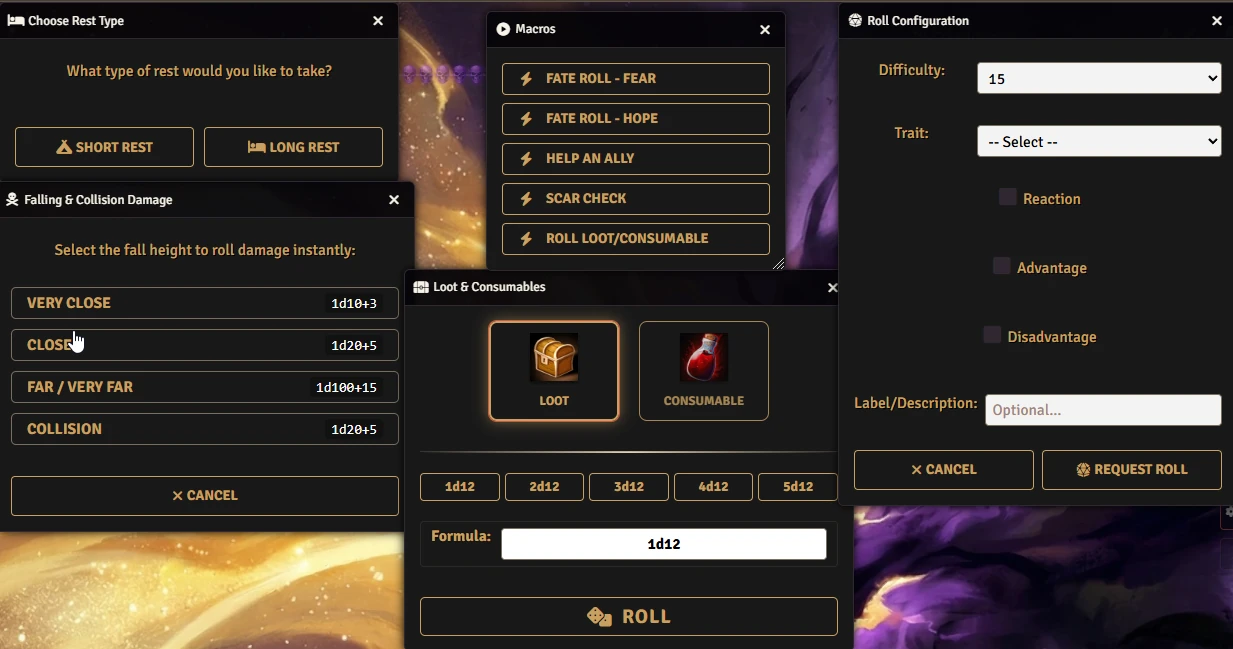
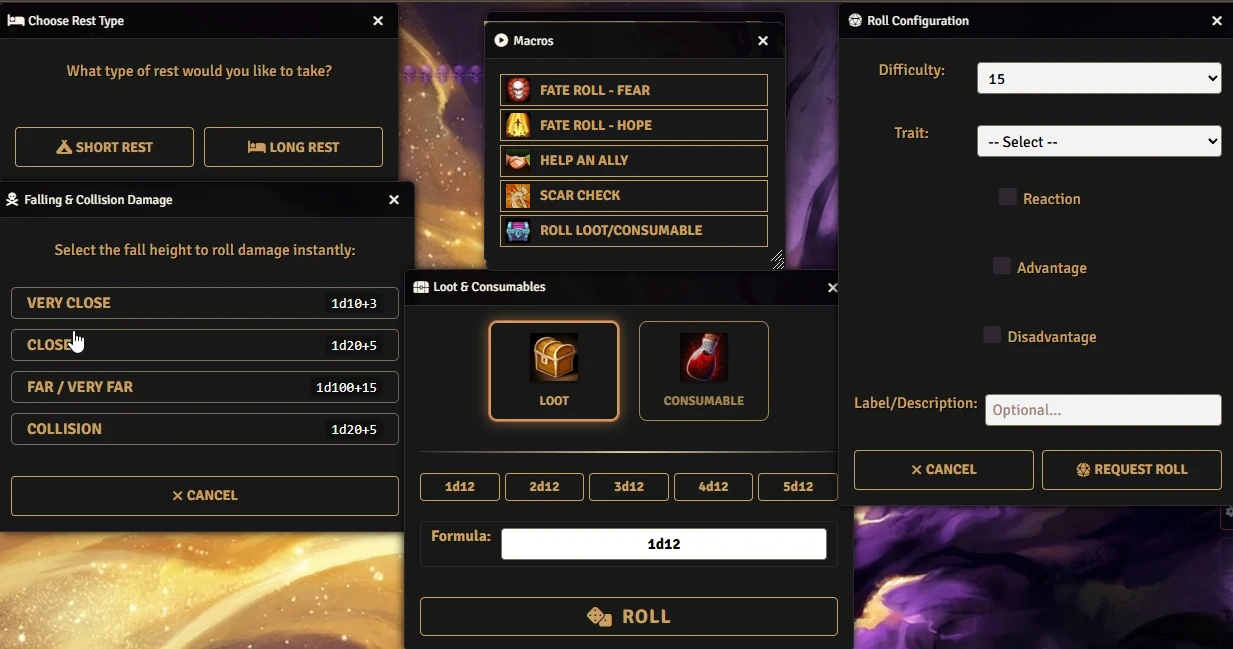
0.0.5

Changed region(s): [[0.4006, 0.0308, 0.6164, 0.4006], [0.6164, 0.0308, 0.6472, 0.0616]]

diff --git a/scripts/apps.js b/scripts/apps.js
@@ -750,32 +750,89 @@ class ShowMacrosApp extends HandlebarsApplicationMixin(ApplicationV2) {
     };
 
     async _prepareContext(options) {
+        const macroList = [];
+        const defaultPackName = "daggerheart-quickactions.macros";
+        const pack = game.packs.get(defaultPackName);
+        let index = null;
+        
+        // Fetch index to check for names/images if possible without loading all docs
+        if (pack) {
+            index = await pack.getIndex();
+        }
+
+        for (const identifier of this.macroNames) {
+            let displayName = identifier;
+            let displayImg = "icons/svg/dice-target.svg"; // Default macro icon
+            let isUUID = typeof identifier === "string" && identifier.includes(".");
+
+            let doc = null;
+
+            if (isUUID) {
+                try {
+                    // Attempt to load the document to get its name and image
+                    doc = await fromUuid(identifier);
+                } catch (error) {
+                    console.warn(`QuickActions | Could not resolve UUID '${identifier}'.`);
+                }
+            } else if (index) {
+                // Try finding by name in default pack
+                // We use the index first to see if it exists
+                const entry = index.find(m => m.name === identifier);
+                if (entry) {
+                    // The index entry usually has name and img
+                    displayName = entry.name;
+                    displayImg = entry.img;
+                }
+            }
+
+            // If we successfully loaded a full document (via UUID), override with its specific data
+            if (doc) {
+                displayName = doc.name;
+                displayImg = doc.img;
+            }
+
+            macroList.push({
+                id: identifier,   // The original string (Name or UUID) needed for execution logic
+                name: displayName,
+                img: displayImg
+            });
+        }
+
         return {
-            macros: this.macroNames
+            macros: macroList
         };
     }
 
     async _onExecuteMacro(event, target) {
-        const macroName = target.dataset.macro;
-        const packName = "daggerheart-quickactions.macros";
-        const pack = game.packs.get(packName);
+        const identifier = target.dataset.macro;
+        const defaultPackName = "daggerheart-quickactions.macros";
+        let macro = null;
 
-        if (!pack) {
-            ui.notifications.error(`Compendium '${packName}' not found.`);
-            return;
+        // 1. Try finding by Name in the default specific Compendium
+        const pack = game.packs.get(defaultPackName);
+        if (pack) {
+            const index = await pack.getIndex();
+            const entry = index.find(m => m.name === identifier);
+            if (entry) {
+                macro = await pack.getDocument(entry._id);
+            }
         }
 
-        const index = await pack.getIndex();
-        const entry = index.find(m => m.name === macroName);
-
-        if (!entry) {
-            ui.notifications.warn(`Macro '${macroName}' not found in '${packName}'.`);
-            return;
+        // 2. If not found in the default compendium, assume it is a UUID
+        if (!macro) {
+            try {
+                // Resolves UUIDs like "Macro.ID" (World) or "Compendium.scope.pack.Item.ID"
+                macro = await fromUuid(identifier);
+            } catch (err) {
+                // Ignore parse errors, user might have just typed a name that doesn't exist
+            }
         }
 
-        const macro = await pack.getDocument(entry._id);
-        if (macro) {
+        // 3. Execution
+        if (macro && typeof macro.execute === 'function') {
             macro.execute();
+        } else {
+            ui.notifications.warn(`QuickActions: Macro '${identifier}' not found in '${defaultPackName}' nor as a valid UUID.`);
         }
     }
 }

diff --git a/README.md b/README.md
@@ -76,8 +76,9 @@ QuickActions.SpotlightToken();
 
 ```javascript
 // Opens a dialog with buttons for specific macros by name
-// Requires macros to exist in the 'daggerheart-quickactions.macros' compendium
-QuickActions.ShowMacros("Macro Name 1", "Macro Name 2");
+// To use the macro name it requires the macros to exist in the 'daggerheart-quickactions.macros' compendium. You can use the UUID to add any macro from world or any compendium.
+// 
+QuickActions.ShowMacros("Macro Name 1", "Macro Name 2", "Macro.CDcmq4UiZMqs6pbs", "Compendium.daggerheart-quickactions.macros.Macro.5SyMBdCHM5TZXqGz");
 ```
 
 Extra macros [here](https://github.com/brunocalado/daggerheart-quickactions/wiki)

diff --git a/CHANGELOG.md b/CHANGELOG.md
@@ -1,5 +1,6 @@
 # 0.0.5
 - beastform art updater: READ https://github.com/brunocalado/daggerheart-quickactions/wiki#beastform
+- ShowMacros suporta UUID https://github.com/brunocalado/daggerheart-quickactions#via-api--macros
 
 # 0.0.4
 - removed loot table to use from the system
